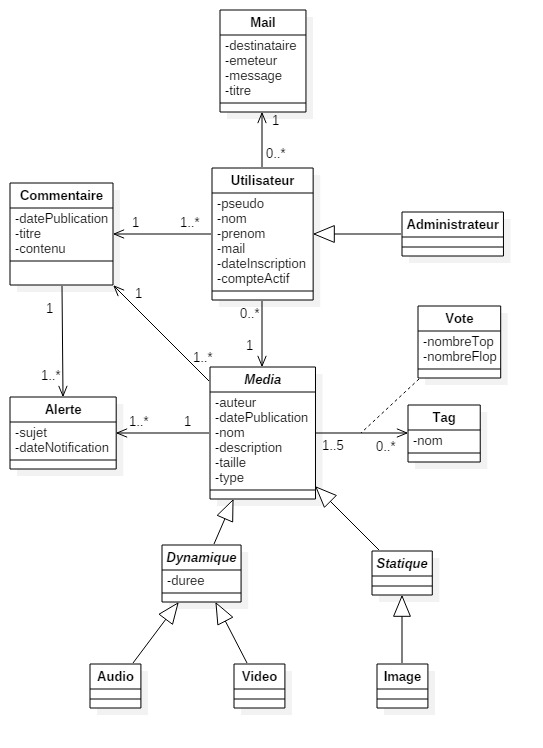
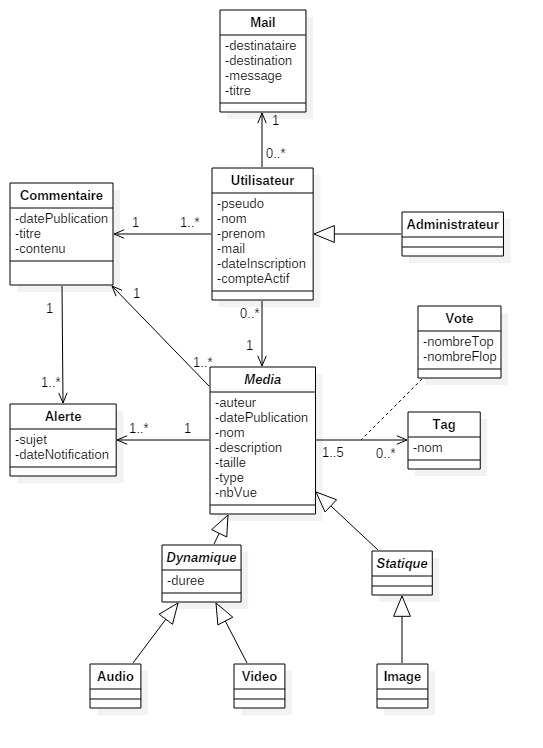
11ieme jours dieu crea la femme

diff --git a/src/com/humanbooster/mediabuzz/business/Media.java b/src/com/humanbooster/mediabuzz/business/Media.java
@@ -14,13 +14,14 @@ public class Media {
 	private List<Commentaire> commentaires = new ArrayList<>();
 	private String description;
 	private int taille;
+	private int nbVue;
 	private List<Vote> votes = new ArrayList<>();
 	private List<Alerte> alertes = new ArrayList<>();
 	
 	// Constructeurs
 	public Media(String auteur, Utilisateur utilisateur, Date datePublication,
 			List<Tag> tags, List<Commentaire> commentaires, String description,
-			int taille, List<Vote> votes, List<Alerte> alertes) {
+			int taille, List<Vote> votes, List<Alerte> alertes, int nbVue) {
 		super();
 		this.auteur = auteur;
 		this.utilisateur = utilisateur;
@@ -29,6 +30,7 @@ public class Media {
 		this.commentaires = commentaires;
 		this.description = description;
 		this.taille = taille;
+		this.nbVue = nbVue;
 		this.votes = votes;
 		this.alertes = alertes;
 	}

diff --git a/src/com/humanbooster/mediabuzz/business/Image.java b/src/com/humanbooster/mediabuzz/business/Image.java
@@ -1,6 +1,24 @@
 package com.humanbooster.mediabuzz.business;
 
+import java.util.Date;
+import java.util.List;
+
 public class Image extends Statique{
+	//Attributs
+	
+	//Constructeur
+	
+	public Image(String auteur, Utilisateur utilisateur, Date datePublication,
+			List<Tag> tags, List<Commentaire> commentaires, String description,
+			int taille, List<Vote> votes, List<Alerte> alertes, int nbVue) {
+		super(auteur, utilisateur, datePublication, tags, commentaires, description,
+				taille, votes, alertes, nbVue);
+		// TODO Auto-generated constructor stub
+		
+	//Getteur et Seteurs
+		
+	//ToString
+	}
 	
 	
 }

diff --git a/src/com/humanbooster/mediabuzz/business/Statique.java b/src/com/humanbooster/mediabuzz/business/Statique.java
@@ -1,5 +1,17 @@
 package com.humanbooster.mediabuzz.business;
 
+import java.util.Date;
+import java.util.List;
+
 public class Statique extends Media{
+	
+	public Statique(String auteur, Utilisateur utilisateur,
+			Date datePublication, List<Tag> tags,
+			List<Commentaire> commentaires, String description, int taille,
+			List<Vote> votes, List<Alerte> alertes, int nbVue) {
+		super(auteur, utilisateur, datePublication, tags, commentaires, description,
+				taille, votes, alertes, nbVue);
+		// TODO Auto-generated constructor stub
+	}
 
 }

diff --git a/src/com/humanbooster/mediabuzz/business/Dynamique.java b/src/com/humanbooster/mediabuzz/business/Dynamique.java
@@ -14,7 +14,7 @@ public class Dynamique extends Media{
 			List<Commentaire> commentaires, String description, int taille,
 			List<Vote> votes, List<Alerte> alertes, Media media, String duree) {
 		super(auteur, utilisateur, datePublication, tags, commentaires,
-				description, taille, votes, alertes);
+				description, taille, votes, alertes, taille);
 		this.media = media;
 		this.duree = duree;
 	}
